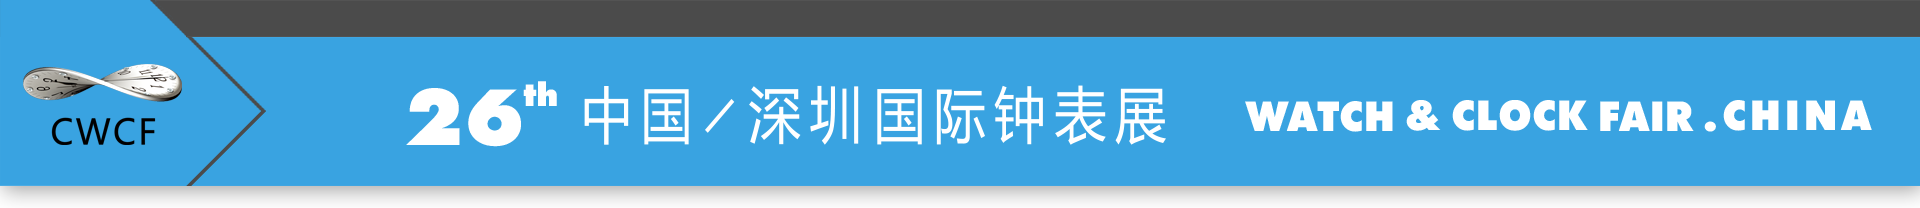
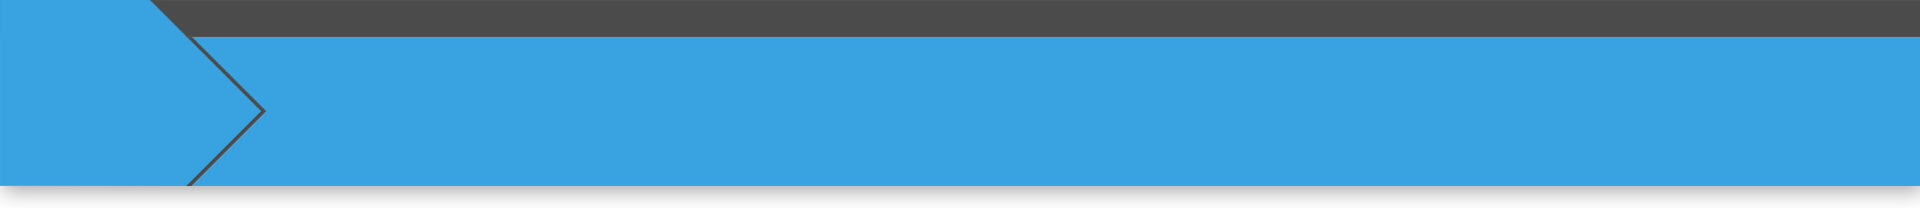
更改网页顶部显示

Changed region(s): [[0.1875, 0.4038, 1.0, 0.7212], [0.0, 0.2885, 0.0938, 0.4904], [0.0312, 0.5481, 0.0938, 0.6923]]

diff --git a/app/assets/stylesheets/application.css.scss b/app/assets/stylesheets/application.css.scss
@@ -46,10 +46,32 @@ a:hover {
   }
 }
 
-.header IMG {
-  min-width: 1200px;
-  width: 100%;
-  height: 150px;
+.header {
+  > IMG {
+    min-width: 1200px;
+    width: 100%;
+    height: 150px;
+  }
+  > div {
+    position: absolute;
+    top: 50px;
+  }
+  .website-body-title {
+    width: 1200px;
+    padding: 0;
+    .logo-pic {
+      max-width: 100px;
+      float: left;
+      margin-left: 20px;
+    }
+    .title-pic {
+      margin-left: 120px;
+      margin-top: 10px;
+      height: 43px;
+      width: 955px;
+      float: right;
+    }
+  }
 }
 
 .carousel .carousel-inner .item .img-responsive{
